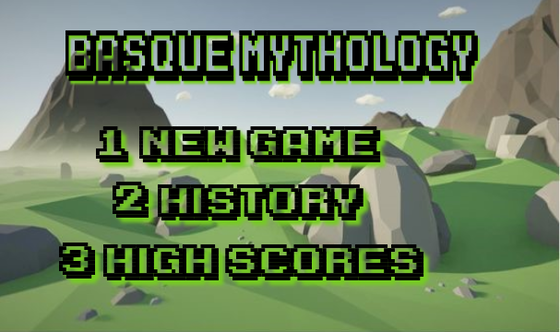
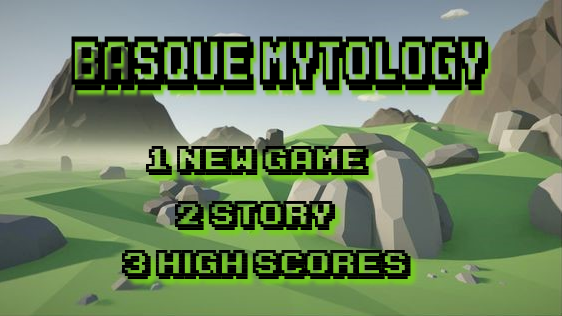
imagen pantalla home y story cambiadas

diff --git a/src/gameLogic.js b/src/gameLogic.js
@@ -35,7 +35,7 @@ export default function update()
 
         case Game.GAME_OVER:
             updateGameOver();
-            updateGameOverMusic();
+            //updateGameOverMusic();
             break;
 
         case Game.HIGH_SCORES:
@@ -82,7 +82,7 @@ function updateLevel2()
 
 function updateGameOver()
 {  
-    //updateGameOverMusic();
+    updateGameOverMusic();
     if( globals.action.moveSpace)
         globals.gameState = Game.PLAYERNAME; 
 }
@@ -142,7 +142,7 @@ function playGame()
         playLevel2();
         //globals.gameState = Game.LEVEL2;
     }
-    if (globals.score > 7500)
+    if (globals.score > 9000)
     {
         playLevel2();
     }  
@@ -1079,7 +1079,7 @@ function upData ()
 
     //Ruta relativa al fichero que hace la peticion(testAjax.php)
     const url = "http://localhost/serverClient/server/routes/postHighscores.php";
-    //const url = "http://2223arcadetalde2.aegcloud.pro/server/MikelServer/routes/postHighscores.php";
+    //const url = "http://2223arcadetalde2.aegcloud.pro/Server/MikelServer/routes/postHighscores.php";
 
     const request = new XMLHttpRequest();
     request.open('POST', url, true);

diff --git a/src/gameRender.js b/src/gameRender.js
@@ -302,10 +302,13 @@ function drawLevel2()
     //Dibujamos el HUD
     renderHUD();
 
+    const kills = globals.kills;
     const agua = globals.agua;
     globals.ctx.font         = '40px emulogic';
     globals.ctx.fillStyle    = 'brown';
     globals.ctx.fillText("LEVEL 2", 95, 50);
+    globals.ctx.font         = '12px emulogic';
+    globals.ctx.fillText("DEATHS:" + kills, 410, 40);
     globals.ctx.font         = '15px emulogic';
     globals.ctx.fillText("TIME:" + globals.levelTime.value, 410, 25);
     globals.ctx.drawImage(globals.tileSets[12], 8, 0);
@@ -340,10 +343,13 @@ function drawLevel3()
     //Dibujamos el HUD
     renderHUD();
 
+    const kills = globals.kills;
     const agua = globals.agua;
     globals.ctx.font         = '40px emulogic';
     globals.ctx.fillStyle    = 'pink';
     globals.ctx.fillText("LEVEL 3", 95, 50);
+    globals.ctx.font         = '12px emulogic';
+    globals.ctx.fillText("DEATHS:" + kills, 410, 40);
     globals.ctx.font         = '15px emulogic';
     globals.ctx.fillText("TIME:" + globals.levelTime.value, 410, 25);
     globals.ctx.drawImage(globals.tileSets[12], 8, 0);

diff --git a/src/initialize.js b/src/initialize.js
@@ -117,7 +117,7 @@ function loadAssets()
     //history
     tileSet = new Image();
     tileSet.addEventListener("load", loadHandler, false);
-    tileSet.src = "./images/history.png";
+    tileSet.src = "./images/STORY.png";
     globals.tileSets.push(tileSet);
     globals.assetsToLoad.push(tileSet);
 
@@ -744,7 +744,7 @@ function getDataBase()
 {
   //Ruta o absoluta o elativa al fivchero que hace la peticion(HTML)
   const url = "http://localhost/serverClient/server/routes/getAllHighscores.php"
-  //const url = "http://2223arcadetalde2.aegcloud.pro/server/MikelServer/routes/getAllHighscores.php"
+  //const url = "http://2223arcadetalde2.aegcloud.pro/Server/MikelServer/routes/getAllHighscores.php"
   const request = new XMLHttpRequest();
 
   request.onreadystatechange = function()
